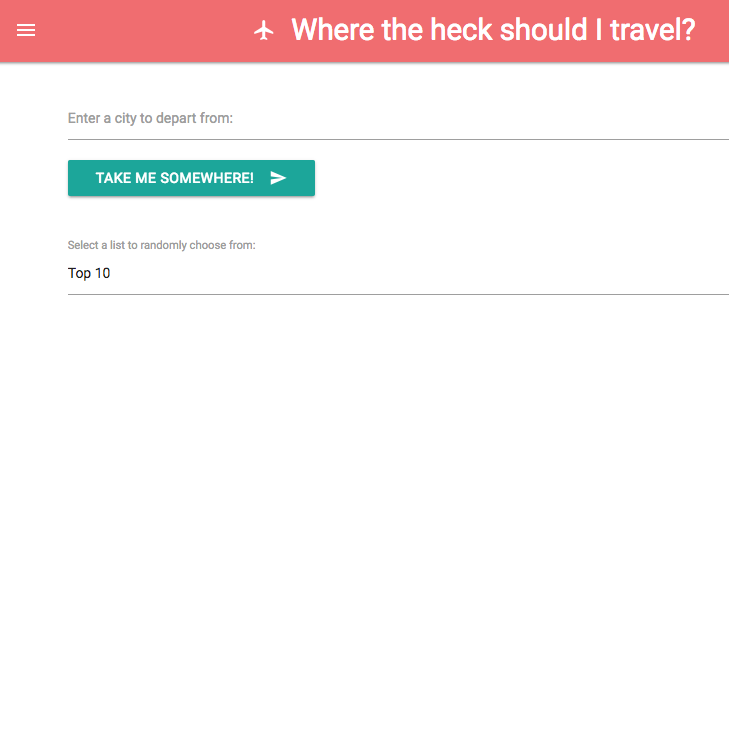
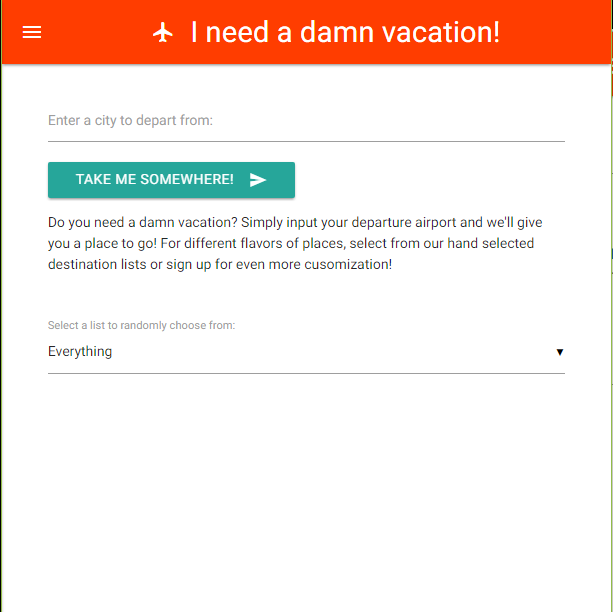
Updated vacation site

Changed region(s): [[0.0, 0.0, 1.0, 1.0], [0.062, 0.5278, 0.3719, 0.5899]]

diff --git a/portfolio.html b/portfolio.html
@@ -20,7 +20,7 @@
     <div class="portfolio-item">
       <img class = "portfolio-img" src="img/travel.png" alt="Wine App">
       <div class="portfolio-link">
-        <a href="https://where-to-travel.herokuapp.com/#/">Where the heck should I travel?</a>
+        <a href="https://i-need-a-damn-vacation.herokuapp.com/#/">I need a damn vacation!</a>
       </div>
     </div>
     <div class="portfolio-item">
